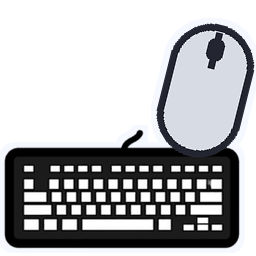
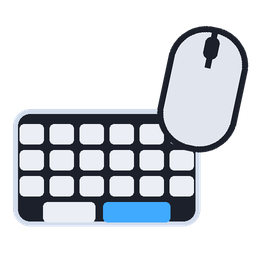
v1.22.0: заголовок таба — текстовый FaralMC (полоса выключена+миграция), устройство текстом в TAB-списке, значок переходника v2, пак 1.14.0

diff --git a/FaralTab/src/main/java/ru/FaralMC/FaralTab/FaralTab.java b/FaralTab/src/main/java/ru/FaralMC/FaralTab/FaralTab.java
@@ -82,6 +82,13 @@ public final class FaralTab extends JavaPlugin implements Listener, CommandExecu
             saveConfig();
             getLogger().info("Миграция: {device_icon} убран из строк скорборда (значок остался только в нике).");
         }
+        // Заголовок скорборда: пиксельная полоса -> обычный читаемый текст FaralMC (один раз).
+        if (!getConfig().getBoolean("scoreboard.title-text-migrated", false)) {
+            getConfig().set("scoreboard.title-logo.enabled", false);
+            getConfig().set("scoreboard.title-text-migrated", true);
+            saveConfig();
+            getLogger().info("Миграция: заголовок скорборда — текстовый FaralMC (полоса-картинка выключена).");
+        }
     }
 
     public Hooks hooks() {

diff --git a/FaralTab/src/main/java/ru/FaralMC/FaralTab/NametagManager.java b/FaralTab/src/main/java/ru/FaralMC/FaralTab/NametagManager.java
@@ -103,8 +103,12 @@ public final class NametagManager {
         if (changed && plugin.getConfig().getBoolean("nametag.use-display-name", true)) {
             Component name = Component.text(prefix).append(Component.text(player.getName()));
             player.displayName(name);
-            player.setPlayerListName(TextUtil.color(
-                    plugin.getConfig().getString("nametag.prefix-color", "&f")) + prefix + player.getName());
+            String tabName = TextUtil.color(
+                    plugin.getConfig().getString("nametag.prefix-color", "&f")) + prefix + player.getName();
+            if (plugin.getConfig().getBoolean("nametag.device-name-in-tab", true)) {
+                tabName += TextUtil.color(" &7(" + plugin.sidebar().deviceName(player) + ")");
+            }
+            player.setPlayerListName(tabName);
         }
     }
 
